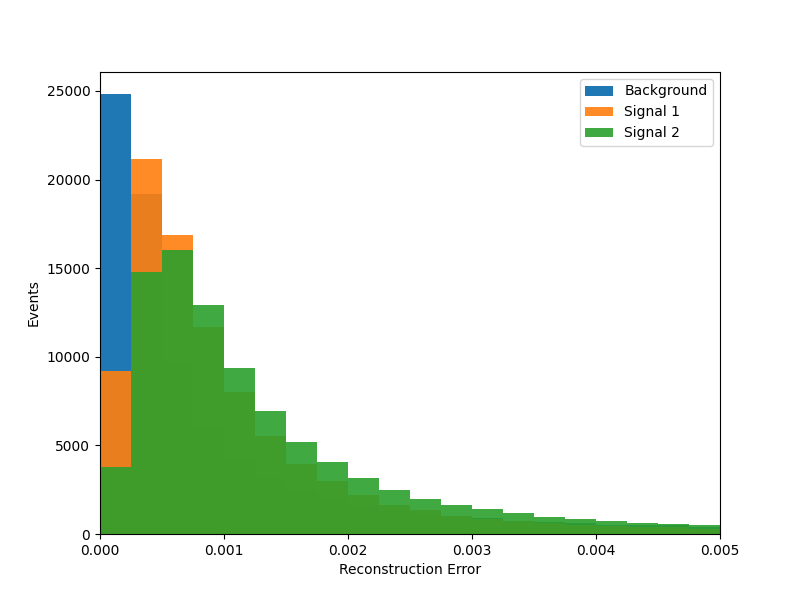
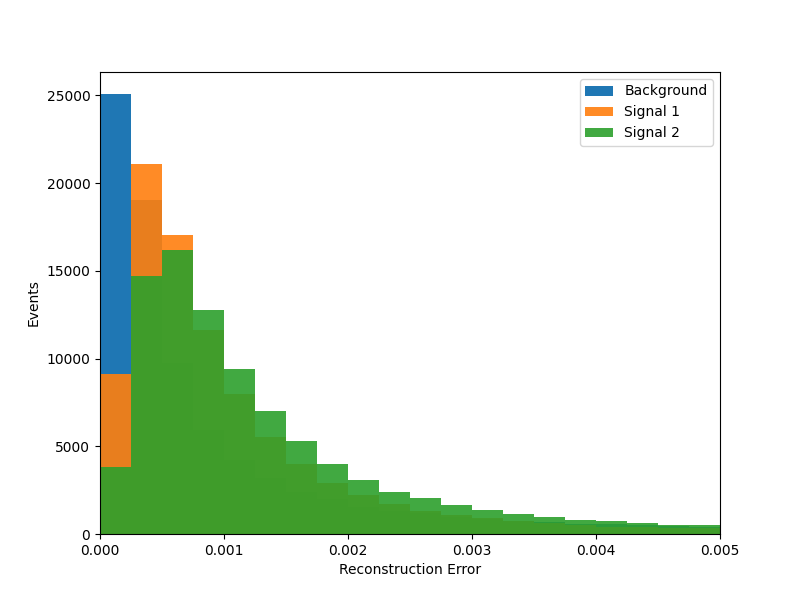
Testing with minmax scaling and 21, 14 layer dimensions

diff --git a/test.py b/test.py
@@ -33,7 +33,7 @@ bkg = pd.read_hdf(f"{path}/RnD_2j_scalars_bkg.h5")
 sig1 = pd.read_hdf(f"{path}/RnD_2j_scalars_sig.h5")
 sig2 = pd.read_hdf(f"{path}/RnD2_2j_scalars_sig.h5")
 
-selection = pd.read_csv(f"dijet-selection.csv", header=None).values[:, 0]
+selection = pd.read_csv("dijet-selection.csv", header=None).values[:, 0]
 
 bkg.replace([np.nan, -np.inf, np.inf], 0, inplace=True)
 sig1.replace([np.nan, -np.inf, np.inf], 0, inplace=True)
@@ -121,12 +121,12 @@ loss_sig2_total = loss_sig2.sum(axis=1) / 42
 # Plot Total Reconstruction Error
 nbins = 20
 fig, axes = plt.subplots(figsize=(8,6))
-axes.hist([loss_bkg_total], nbins, range=(0, 1), density=0, histtype='bar', label=['Background'], stacked=True, alpha=1)
-axes.hist([loss_sig1_total], nbins, range=(0, 1), density=0, histtype='bar', label=['Signal 1'], stacked=True, alpha=0.9)
-axes.hist([loss_sig2_total], nbins, range=(0, 1), density=0, histtype='bar', label=['Signal 2'], stacked=True, alpha=0.9)
+axes.hist([loss_bkg_total], nbins, range=(0, 0.005), density=0, histtype='bar', label=['Background'], stacked=True, alpha=1)
+axes.hist([loss_sig1_total], nbins, range=(0, 0.005), density=0, histtype='bar', label=['Signal 1'], stacked=True, alpha=0.9)
+axes.hist([loss_sig2_total], nbins, range=(0, 0.005), density=0, histtype='bar', label=['Signal 2'], stacked=True, alpha=0.9)
 axes.set_xlabel(r"Reconstruction Error")
 axes.set_ylabel("Events")
-axes.set_xlim(0, 1)
+axes.set_xlim(0, 0.005)
 axes.legend(loc='upper right')
 fig.savefig(f"figs/testing/reconstruction_error_{scale}_{mid_dim}_{latent_dim}.png")
 
